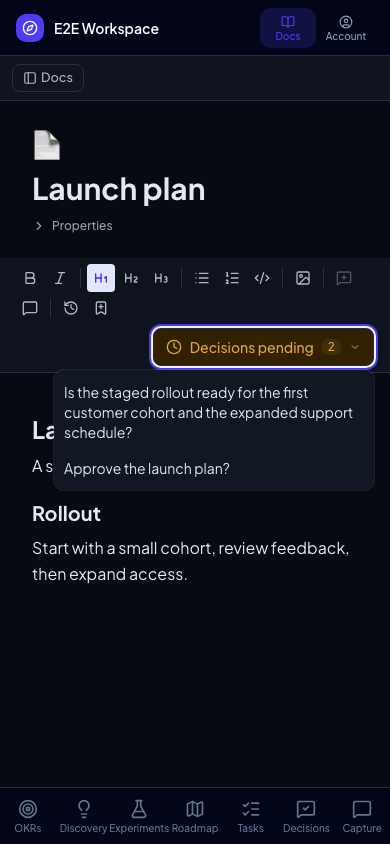
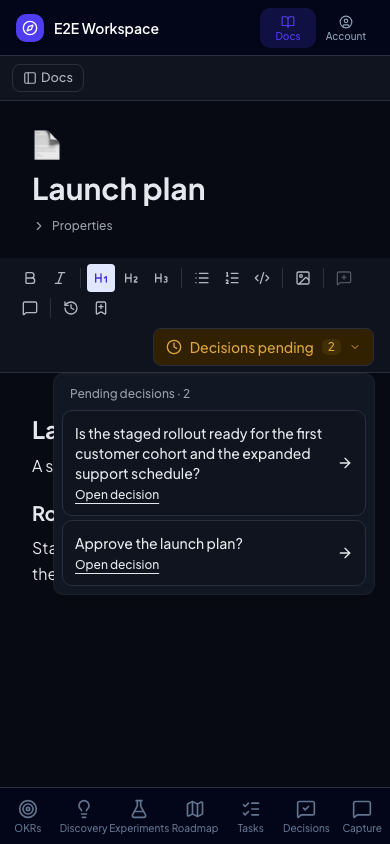
fix(docs): make pending decision menu actions clear

Changed region(s): [[0.1231, 0.3697, 0.9846, 0.7085], [0.7077, 0.6161, 0.8923, 0.6777], [0.8615, 0.5237, 0.8923, 0.5545]]

diff --git a/components/docs/doc-decision-action.tsx b/components/docs/doc-decision-action.tsx
@@ -1,9 +1,9 @@
 "use client"
 
 import Link from "next/link"
-import { ChevronDown, Clock, CircleAlert } from "lucide-react"
+import { ArrowRight, ChevronDown, Clock, CircleAlert } from "lucide-react"
 import { RequestDecisionLink } from "@/components/decisions/request-decision-link"
-import { DropdownMenu, DropdownMenuContent, DropdownMenuItem, DropdownMenuTrigger } from "@/components/ui/dropdown-menu"
+import { DropdownMenu, DropdownMenuContent, DropdownMenuGroup, DropdownMenuLabel, DropdownMenuItem, DropdownMenuTrigger } from "@/components/ui/dropdown-menu"
 import type { PendingDocDecision } from "@/lib/tracked-decisions"
 
 type Props = { orgSlug: string; workspaceSlug: string; docId: string; docTitle: string; decisions: PendingDocDecision[] | null }
@@ -19,8 +19,17 @@ export function DocDecisionAction({ orgSlug, workspaceSlug, docId, docTitle, dec
   if (decisions.length === 1) return <Link href={`${base}/reviews/${decisions[0].id}`} className={actionClass} aria-label={accessibleLabel}>{content}</Link>
   return <DropdownMenu>
     <DropdownMenuTrigger className={actionClass} aria-label={accessibleLabel}>{content}<ChevronDown className="size-3 shrink-0" aria-hidden="true" /></DropdownMenuTrigger>
-    <DropdownMenuContent align="end" className="w-80 max-w-[calc(100vw-2rem)]">
-      {decisions.map(decision => <DropdownMenuItem key={decision.id} render={<Link href={`${base}/reviews/${decision.id}`} />} className="items-start whitespace-normal [overflow-wrap:anywhere] py-2">{decision.title}</DropdownMenuItem>)}
+    <DropdownMenuContent align="end" sideOffset={8} className="w-80 max-w-[calc(100vw-2rem)] p-2 shadow-lg">
+      <DropdownMenuGroup>
+        <DropdownMenuLabel className="px-2 pb-2 pt-1">Pending decisions · {decisions.length}</DropdownMenuLabel>
+        {decisions.map(decision => <DropdownMenuItem key={decision.id} aria-label={decision.title} render={<Link href={`${base}/reviews/${decision.id}`} />} className="mb-1 cursor-pointer items-center gap-3 whitespace-normal rounded-lg border border-border-default bg-surface-panel px-3 py-3 last:mb-0 hover:bg-accent data-highlighted:bg-accent focus-visible:ring-2 focus-visible:ring-inset focus-visible:ring-ring">
+          <span className="min-w-0 flex-1 space-y-1">
+            <span className="block font-medium leading-5 [overflow-wrap:anywhere]">{decision.title}</span>
+            <span className="block text-xs font-medium text-popover-foreground underline underline-offset-4">Open decision</span>
+          </span>
+          <ArrowRight className="size-4 text-popover-foreground" aria-hidden="true" />
+        </DropdownMenuItem>)}
+      </DropdownMenuGroup>
     </DropdownMenuContent>
   </DropdownMenu>
 }

diff --git a/__tests__/components/doc-decision-action.test.tsx b/__tests__/components/doc-decision-action.test.tsx
@@ -22,7 +22,8 @@ describe("Docs decision toolbar", () => {
     button.focus()
     fireEvent.keyDown(button, { key: "ArrowDown" })
     const items = await screen.findAllByRole("menuitem")
-    expect(items.map(item => item.textContent)).toEqual(["Newest?", "Older?"])
+    expect(items.map(item => item.getAttribute("aria-label"))).toEqual(["Newest?", "Older?"])
+    expect(screen.getAllByText("Open decision")).toHaveLength(2)
     expect(items[0]).toHaveAttribute("href", "/org/space/reviews/new")
     expect(items[1]).toHaveAttribute("href", "/org/space/reviews/old")
     fireEvent.keyDown(items[0], { key: "Escape" })
